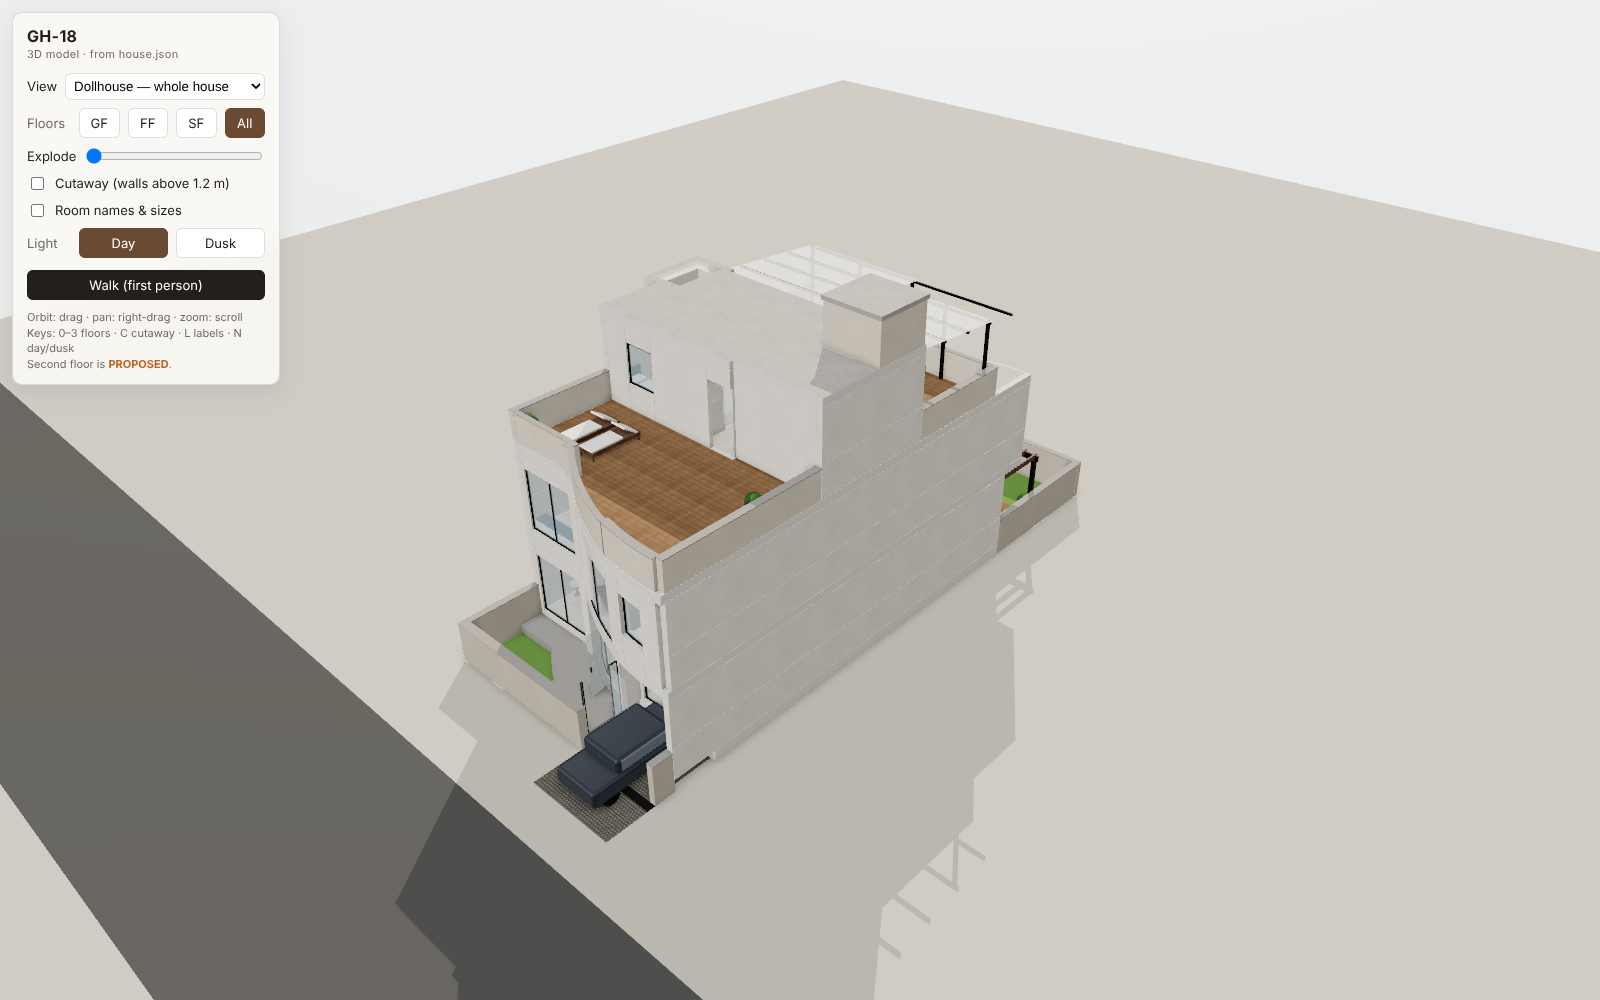
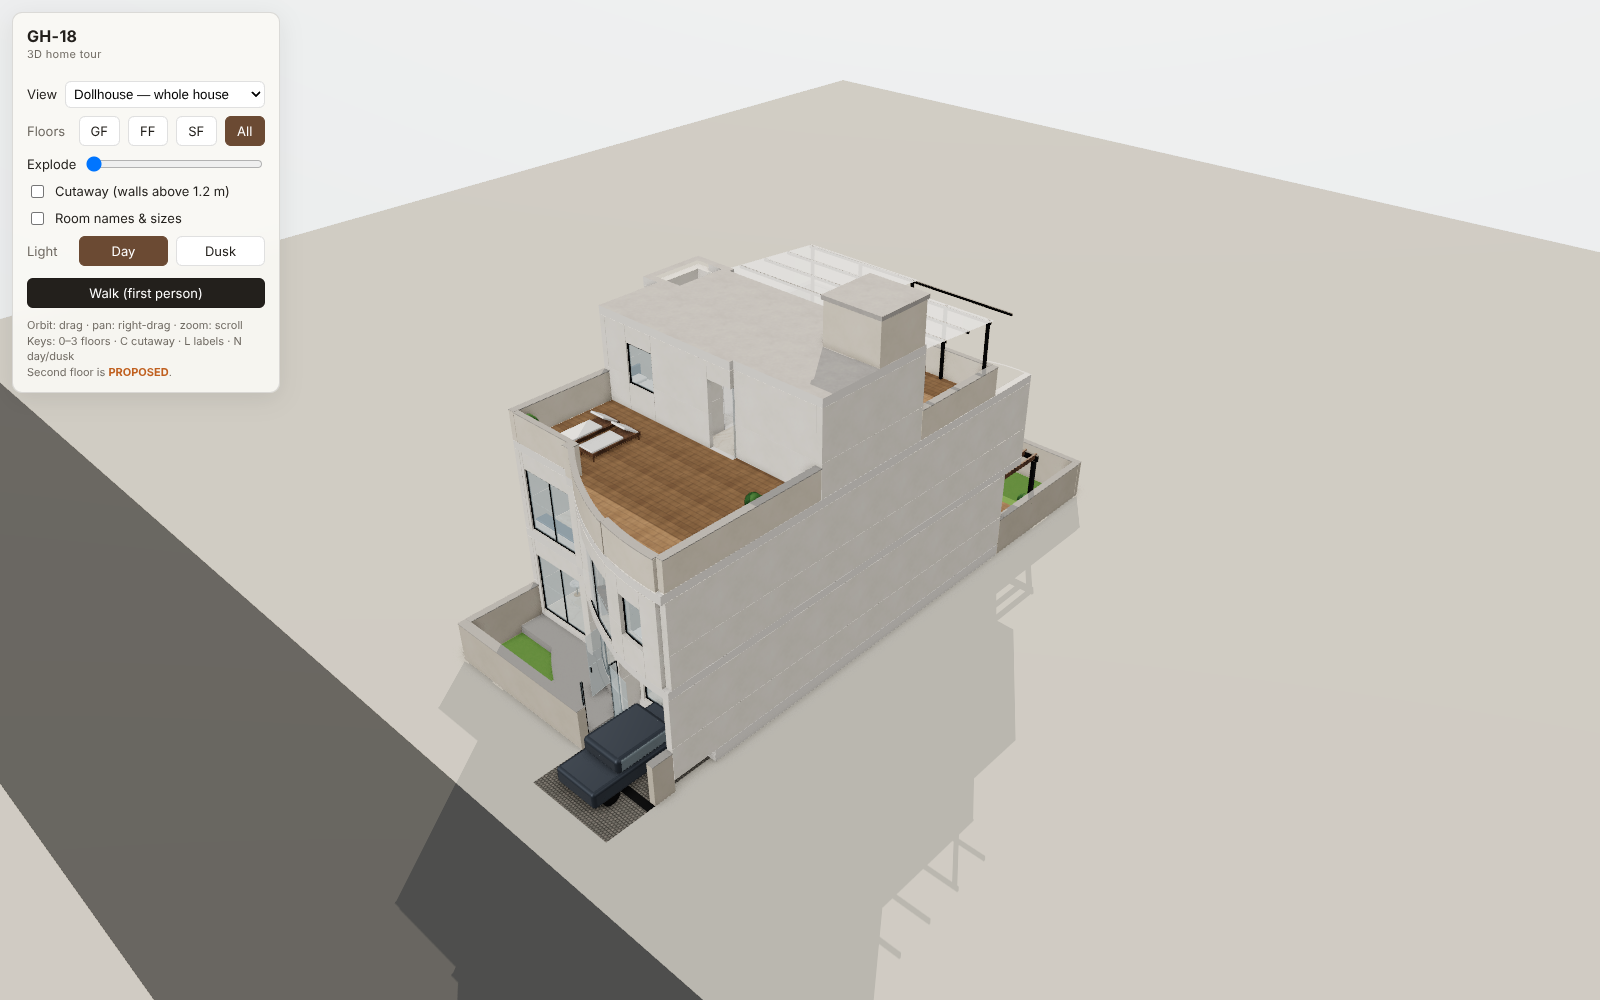
Mobile: bottom-sheet menu, portrait framing, touch walk mode
On phones the control panel no longer covers the screen: it collapses to a
slim bottom bar (GH-18 · Menu) and opens as a scrollable sheet with larger
tap targets; choosing a view or Walk closes it. Hints are touch-specific.
Overview cameras pull back on portrait screens so the whole house fits, and
the opening view uses that framing.

Walk mode used pointer lock + WASD, so it did nothing on touch. Phones now
get a joystick under the left thumb and drag-to-look with the right; the
walk instructions move to the top so they don't sit under the thumbs.
Desktop layout and behaviour are unchanged.

Claude-Session: https://claude.ai/code/session_01U54x66N6Kh3W9vP1dv4p1K

Changed region(s): [[0.0, 0.031, 0.1875, 0.403]]

diff --git a/gh18-house/viewer/src/main.js b/gh18-house/viewer/src/main.js
@@ -24,7 +24,9 @@ for (const fl of house.floors) {
   fl.furniture = fl.furniture.filter((f) => !f.variant || f.variant === (WITH_ART ? 'art' : 'no_art'));
 }
 // ?low = no AO / smaller shadow map (old laptops, CI); phones and tablets get it automatically
-const LOW = params.has('low') || window.matchMedia('(pointer: coarse)').matches;
+const TOUCH = window.matchMedia('(pointer: coarse)').matches;
+const LOW = params.has('low') || TOUCH;
+const PHONE = () => window.matchMedia('(max-width: 640px)').matches;
 const CINEMA = params.has('cinema');    // ?cinema = no UI, bloom; camera driven by viewer.cine() (film render)
 if (CINEMA) document.body.classList.add('cinema');
 
@@ -142,6 +144,7 @@ async function init() {
 
   setupPost();
   buildUI();
+  if (camera.aspect < 1.2) goPreset('all', true);    // portrait phones: the opening view, framed for the narrow screen
   setTime('day');
   applyView();
   window.viewer.ready = true;
@@ -292,9 +295,17 @@ function goPreset(id, instant = false) {
   if (state.mode === 'walk') exitWalk();
   state.floor = p.floor; state.cutaway = p.cut; state.explode = p.explode || 0;
   applyView();
-  flyTo(new THREE.Vector3(...p.pos), new THREE.Vector3(...p.target), instant ? 0 : 1.1);
+  flyTo(...framed(p), instant ? 0 : 1.1);
   document.getElementById('preset').value = id;
   return true;
+}
+
+// Presets are composed for a landscape window; on a tall (portrait) screen pull the camera back
+// along its line of sight so the house still fits across the narrow width.
+function framed(p) {
+  const pos = new THREE.Vector3(...p.pos), target = new THREE.Vector3(...p.target);
+  const k = camera.aspect < 1.2 ? Math.min(2, Math.sqrt(1.4 / camera.aspect)) : 1;
+  return [target.clone().add(pos.sub(target).multiplyScalar(k)), target];
 }
 
 // ------------------------------------------------------------------ walk mode
@@ -306,16 +317,20 @@ function enterWalk(roomId) {
   const [x, , z] = p.target;
   walker.place(x * 1000, z * 1000, p.fy, Math.PI, 0);
   controls.enabled = false;
-  if (!window.viewer.headless) walker.controls.lock();
+  if (TOUCH) walker.active = true;                     // no pointer lock on phones: joystick + drag
+  else if (!window.viewer.headless) walker.controls.lock();
+  closeMenu();
 }
 function exitWalk() {
   state.mode = 'orbit';
   walker.active = false;
+  walker.stick.x = walker.stick.y = 0;
+  document.getElementById('stick').classList.remove('on');
   if (walker.controls.isLocked) walker.controls.unlock();
   controls.enabled = true;
   camera.rotation.set(0, 0, 0);
   applyView();
-  flyTo(new THREE.Vector3(...overviewPresets()[0].pos), new THREE.Vector3(...overviewPresets()[0].target), 0);
+  flyTo(...framed(overviewPresets()[0]), 0);
 }
 
 // ------------------------------------------------------------------ UI
@@ -333,7 +348,14 @@ function buildUI() {
     o.value = p.id; o.textContent = p.name;
     groups[p.group].appendChild(o);
   }
-  sel.addEventListener('change', () => goPreset(sel.value));
+  sel.addEventListener('change', () => { goPreset(sel.value); closeMenu(); });
+  const panel = document.getElementById('panel'), menu = document.getElementById('menu');
+  menu.addEventListener('click', () => {
+    const open = panel.classList.toggle('open');
+    menu.setAttribute('aria-expanded', open);
+    menu.textContent = open ? 'Close' : 'Menu';
+  });
+  if (TOUCH) touchWalk();
   document.querySelectorAll('[data-floor]').forEach((b) => b.addEventListener('click', () => { state.floor = b.dataset.floor; applyView(); }));
   document.querySelectorAll('[data-time]').forEach((b) => b.addEventListener('click', () => setTime(b.dataset.time)));
   document.getElementById('explode').addEventListener('input', (e) => { state.explode = +e.target.value; applyView(); });
@@ -353,6 +375,61 @@ function buildUI() {
     if (e.code === 'Digit0') { state.floor = 'ALL'; applyView(); }
     if (e.code === 'KeyQ' && state.mode === 'walk') exitWalk();
   });
+}
+
+function closeMenu() {
+  if (!PHONE()) return;
+  document.getElementById('panel').classList.remove('open');
+  const m = document.getElementById('menu');
+  m.setAttribute('aria-expanded', false);
+  m.textContent = 'Menu';
+}
+
+// Phones in walk mode: a touch on the left part of the screen is a joystick, anywhere else drags the view.
+function touchWalk() {
+  const el = renderer.domElement, stick = document.getElementById('stick'), knob = stick.firstElementChild;
+  const R = 56;
+  let move = null;                                     // { id, x0, y0 }
+  const looks = new Map();                             // id -> last { x, y }
+  el.addEventListener('touchstart', (e) => {
+    if (state.mode !== 'walk') return;
+    e.preventDefault();
+    for (const t of e.changedTouches) {
+      if (!move && t.clientX < window.innerWidth * 0.45) {
+        move = { id: t.identifier, x0: t.clientX, y0: t.clientY };
+        stick.style.left = t.clientX + 'px'; stick.style.top = t.clientY + 'px';
+        knob.style.transform = '';
+        stick.classList.add('on');
+      } else looks.set(t.identifier, { x: t.clientX, y: t.clientY });
+    }
+  }, { passive: false });
+  el.addEventListener('touchmove', (e) => {
+    if (state.mode !== 'walk') return;
+    e.preventDefault();
+    for (const t of e.changedTouches) {
+      if (move && t.identifier === move.id) {
+        let dx = t.clientX - move.x0, dy = t.clientY - move.y0;
+        const d = Math.hypot(dx, dy);
+        if (d > R) { dx *= R / d; dy *= R / d; }
+        knob.style.transform = `translate(${dx}px, ${dy}px)`;
+        walker.stick.x = dx / R; walker.stick.y = -dy / R;
+      } else if (looks.has(t.identifier)) {
+        const l = looks.get(t.identifier);
+        walker.look(t.clientX - l.x, t.clientY - l.y);
+        looks.set(t.identifier, { x: t.clientX, y: t.clientY });
+      }
+    }
+  }, { passive: false });
+  const end = (e) => {
+    for (const t of e.changedTouches) {
+      if (move && t.identifier === move.id) {
+        move = null; walker.stick.x = walker.stick.y = 0; stick.classList.remove('on');
+      }
+      looks.delete(t.identifier);
+    }
+  };
+  el.addEventListener('touchend', end);
+  el.addEventListener('touchcancel', end);
 }
 
 window.addEventListener('resize', () => {

diff --git a/gh18-house/viewer/src/style.css b/gh18-house/viewer/src/style.css
@@ -42,6 +42,42 @@ body.walking::after { content: ''; position: absolute; left: 50%; top: 50%; widt
 .room-label.proposed { border-color: var(--prop); }
 .room-label.proposed b { color: var(--prop); }
 
+#panel .head { display: flex; align-items: flex-start; justify-content: space-between; }
+#menu { display: none; }
+.touch { display: none; }
+#stick { display: none; position: absolute; width: 112px; height: 112px; margin: -56px 0 0 -56px; border-radius: 50%;
+  background: rgba(255,255,255,.18); border: 2px solid rgba(255,255,255,.55); pointer-events: none; }
+#stick i { position: absolute; left: 50%; top: 50%; width: 48px; height: 48px; margin: -24px; border-radius: 50%;
+  background: rgba(255,255,255,.75); box-shadow: 0 1px 6px rgba(0,0,0,.25); }
+#stick.on { display: block; }
+
+/* touch devices: touch hints, bigger targets */
+@media (pointer: coarse) {
+  .desk { display: none; }
+  .touch { display: inline; }
+  body.walking #app { touch-action: none; }
+}
+
+/* phones: the panel becomes a bottom sheet - a slim bar until opened */
+@media (max-width: 640px) {
+  #panel { top: auto; left: 8px; right: 8px; bottom: calc(8px + env(safe-area-inset-bottom)); width: auto;
+    padding: 8px 10px 8px 14px; max-height: 72vh; overflow-y: auto; }
+  #panel .head { align-items: center; }
+  #panel h1 { margin: 0; font-size: 15px; }
+  #panel h1 small { display: inline; margin-left: 6px; }
+  #menu { display: block; padding: 8px 16px; font-weight: 600; }
+  #controls { display: none; padding-top: 6px; }
+  #panel.open #controls { display: block; }
+  #panel.open #menu { background: var(--ink); color: #fff; border-color: var(--ink); }
+  .row { margin: 10px 0; }
+  .row select { padding: 8px 6px; font-size: 15px; }
+  button { padding: 9px 8px; }
+  .seg span { width: 52px; }
+  /* top of the screen, so both thumbs have the bottom half */
+  #walkhud { left: 8px; right: 8px; transform: none; top: calc(8px + env(safe-area-inset-top)); bottom: auto; justify-content: space-between; }
+  #walkhud button { padding: 9px 14px; }
+}
+
 /* film render: no UI at all */
 body.cinema #panel, body.cinema #walkhud, body.cinema .labels { display: none !important; }
 body.cinema.walking::after { display: none; }

diff --git a/gh18-house/viewer/index.html b/gh18-house/viewer/index.html
@@ -2,7 +2,7 @@
 <html lang="en">
 <head>
   <meta charset="utf-8" />
-  <meta name="viewport" content="width=device-width, initial-scale=1" />
+  <meta name="viewport" content="width=device-width, initial-scale=1, viewport-fit=cover" />
   <title>GH-18 · 3D Home Tour</title>
   <meta name="description" content="Explore the GH-18 house in 3D: fly around every floor, walk through the rooms, and see it by day and at dusk." />
   <meta name="theme-color" content="#2b2622" />
@@ -26,7 +26,11 @@
   <div id="app"></div>
   <div id="loading">Building GH-18 from house.json…</div>
   <aside id="panel">
-    <h1>GH-18 <small>3D home tour</small></h1>
+    <div class="head">
+      <h1>GH-18 <small>3D home tour</small></h1>
+      <button id="menu" aria-expanded="false" aria-controls="controls">Menu</button>
+    </div>
+    <div id="controls">
     <label class="row">View
       <select id="preset"></select>
     </label>
@@ -42,12 +46,14 @@
       <button data-time="day">Day</button><button data-time="dusk">Dusk</button>
     </div>
     <button id="walk" class="primary">Walk (first person)</button>
-    <p class="hint">Orbit: drag · pan: right-drag · zoom: scroll<br />Keys: 0–3 floors · C cutaway · L labels · N day/dusk<br />Second floor is <b class="prop">PROPOSED</b>.</p>
+    <p class="hint"><span class="desk">Orbit: drag · pan: right-drag · zoom: scroll<br />Keys: 0–3 floors · C cutaway · L labels · N day/dusk<br /></span><span class="touch">Drag to orbit · pinch to zoom · two-finger drag to pan<br /></span>Second floor is <b class="prop">PROPOSED</b>.</p>
+    </div>
   </aside>
   <div id="walkhud">
-    <p>WASD / arrows to move · Shift to run · mouse to look · Esc to release · Q to leave walk mode</p>
+    <p><span class="desk">WASD / arrows to move · Shift to run · mouse to look · Esc to release · Q to leave walk mode</span><span class="touch">Left thumb: walk · right thumb: look around</span></p>
     <button id="exitwalk">Exit walk</button>
   </div>
+  <div id="stick"><i></i></div>
   <script type="module" src="/src/main.js"></script>
 </body>
 </html>

diff --git a/gh18-house/viewer/src/walk.js b/gh18-house/viewer/src/walk.js
@@ -3,7 +3,7 @@ import { PointerLockControls } from 'three/examples/jsm/controls/PointerLockCont
 import { pointInPoly, circleHitsPoly, polyBBox } from './geom.js';
 import { stairHeights } from './build.js';
 
-// First-person walk mode: WASD + mouse at 1.6 m eye height, wall/furniture collision,
+// First-person walk mode: WASD + mouse (or a touch joystick + drag to look) at 1.6 m eye height, wall/furniture collision,
 // and floor following (rooms, terraces, outdoor levels, stairs) taken from house.json.
 
 const EYE = 1.6, RADIUS = 250, STEP = 0.42, SPEED = 1.5, RUN = 3.2;
@@ -14,6 +14,7 @@ export class Walker {
     this.data = data;
     this.controls = new PointerLockControls(camera, dom);
     this.keys = {};
+    this.stick = { x: 0, y: 0 };      // touch joystick, -1..1 (y up = forward)
     this.foot = 0.45;
     this.active = false;
     for (const c of data.colliders) c.bb = polyBBox(c.poly);
@@ -61,13 +62,22 @@ export class Walker {
     this.camera.rotation.set(pitch, yaw, 0, 'YXZ');
   }
 
+  // touch look: drag deltas in px
+  look(dx, dy) {
+    const e = new THREE.Euler(0, 0, 0, 'YXZ').setFromQuaternion(this.camera.quaternion);
+    e.y -= dx * 0.005;
+    e.x = Math.max(-1.45, Math.min(1.45, e.x - dy * 0.005));
+    this.camera.quaternion.setFromEuler(e);
+  }
+
   update(dt) {
     if (!this.active) return;
     const k = this.keys;
-    const fwd = (k.KeyW || k.ArrowUp ? 1 : 0) - (k.KeyS || k.ArrowDown ? 1 : 0);
-    const side = (k.KeyD || k.ArrowRight ? 1 : 0) - (k.KeyA || k.ArrowLeft ? 1 : 0);
-    if (!fwd && !side) return;
-    const speed = (k.ShiftLeft || k.ShiftRight ? RUN : SPEED) * dt;
+    const fwd = (k.KeyW || k.ArrowUp ? 1 : 0) - (k.KeyS || k.ArrowDown ? 1 : 0) + this.stick.y;
+    const side = (k.KeyD || k.ArrowRight ? 1 : 0) - (k.KeyA || k.ArrowLeft ? 1 : 0) + this.stick.x;
+    const mag = Math.min(1, Math.hypot(fwd, side));
+    if (mag < 0.08) return;
+    const speed = (k.ShiftLeft || k.ShiftRight ? RUN : SPEED) * mag * dt;
     const dir = new THREE.Vector3();
     this.camera.getWorldDirection(dir);
     dir.y = 0; dir.normalize();

diff --git a/gh18-house/README.md b/gh18-house/README.md
@@ -63,6 +63,10 @@ The viewer reads `../house.json` directly, so Vite reloads it when the file is s
   - at dusk, warm cove strips, downlights, room lights, the dining pendant and the mandir glow come on
 - **Room names and sizes** (L): labels showing each room's name, size and area.
 - **Rendering:** ACES tone mapping, soft sun shadows, ambient occlusion (GTAO) and 4× MSAA.
+- **Phones:**
+  - the panel is a bottom bar with a Menu button that opens the controls as a sheet; picking a view closes it
+  - overview cameras pull back to fit a portrait screen
+  - in walk mode the left thumb is a joystick and the right thumb looks around
 
 **Screenshots:** `npm run build && npm run shots` drives headless Chromium through every preset and mode, writing the images to `viewer/screenshots/`.
 
